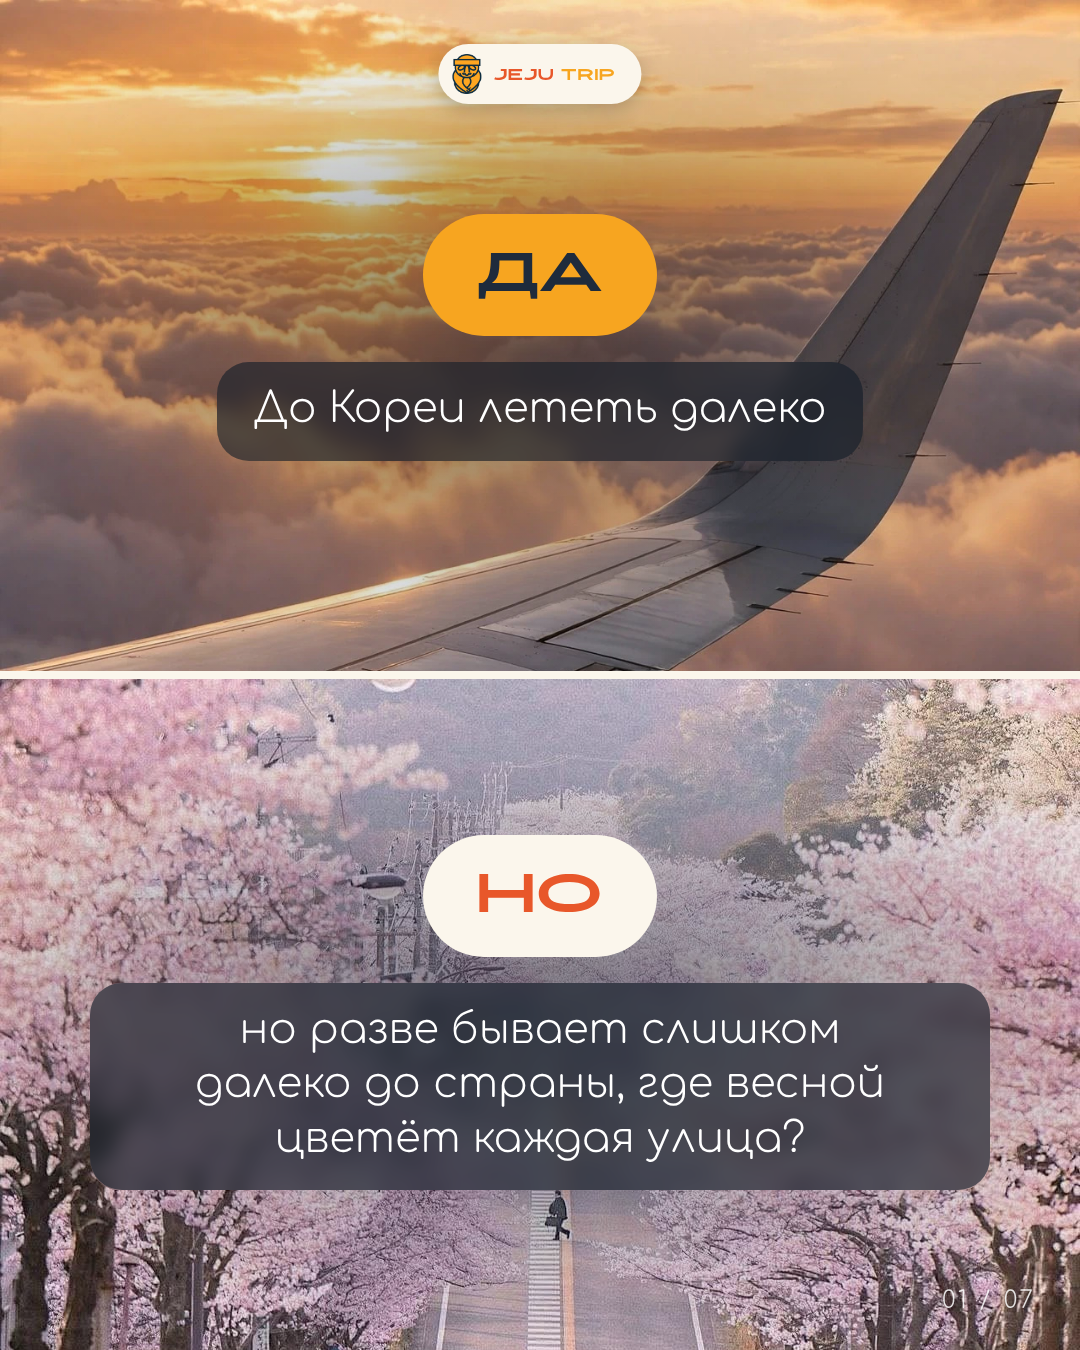
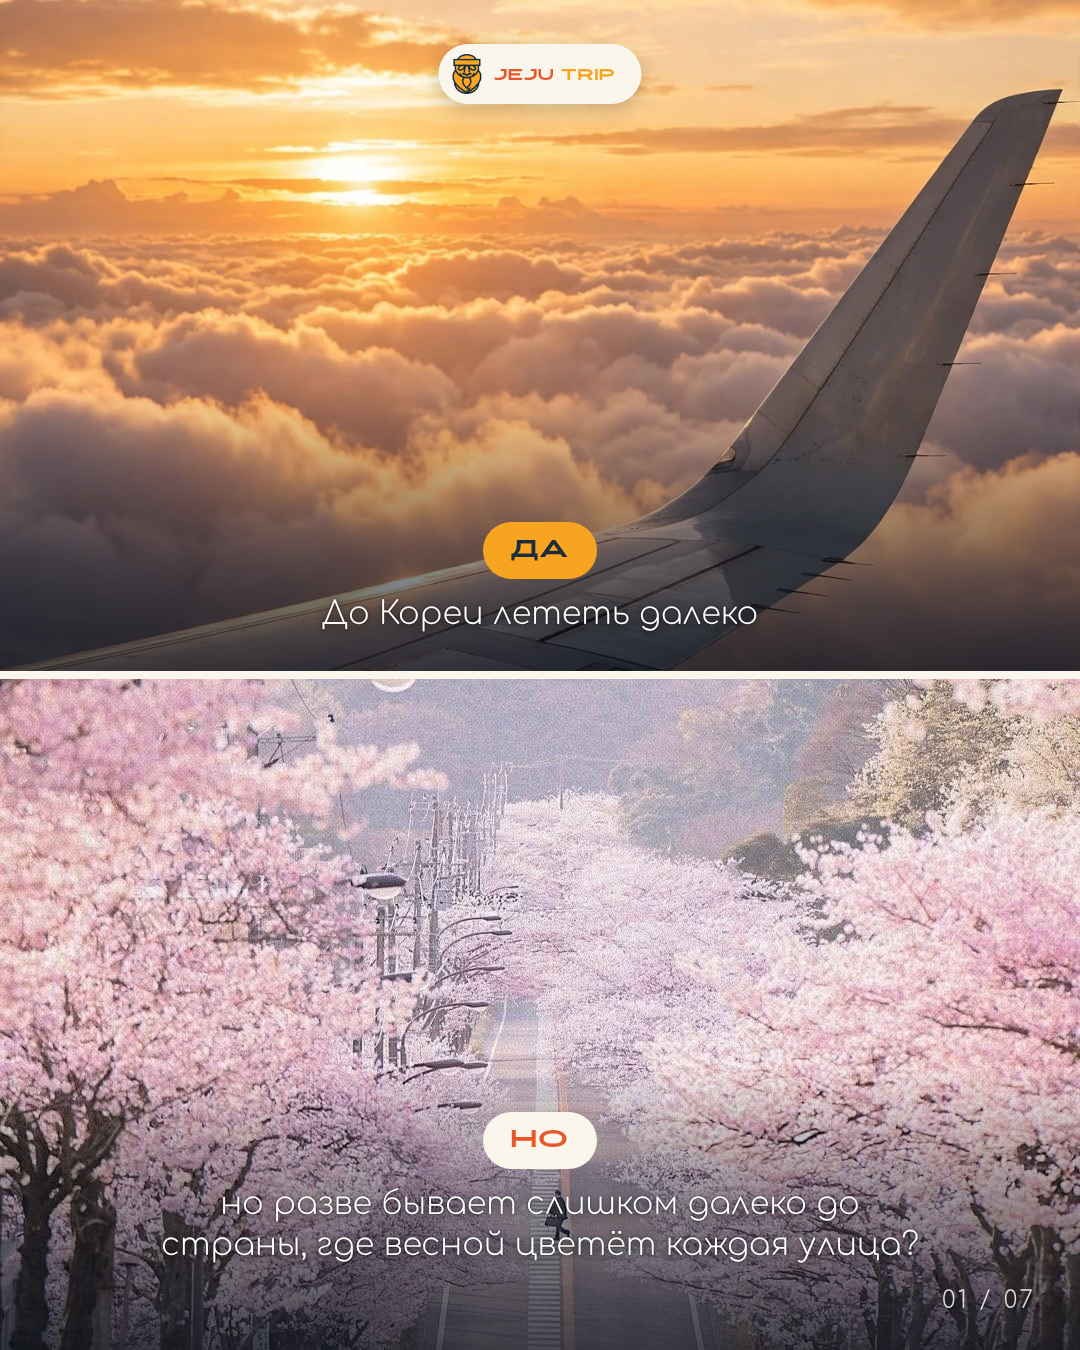
Da/No carousel: compact text at the bottom so photos stay visible
Claude-Session: https://claude.ai/code/session_012yCJf2bhKgqbqEqLj1cFSF

diff --git a/korea-da-no-carousel/carousel.html b/korea-da-no-carousel/carousel.html
@@ -6,15 +6,15 @@
 body{background:#888}
 /* Карусель «Да / Но» 1080×1350: два фото друг над другом, на стыке кремовая линия; текст по центру каждой половины */
 .s{width:1080px;height:1350px;position:relative;overflow:hidden;margin:0 auto 30px;background:var(--navy)}
-.half{position:absolute;left:0;right:0;height:675px;background-size:cover;display:flex;flex-direction:column;align-items:center;justify-content:center;gap:26px;padding:0 90px;text-align:center}
-.half::before{content:"";position:absolute;inset:0;background:radial-gradient(ellipse 75% 55% at 50% 52%,rgba(15,22,34,.55),rgba(15,22,34,.12) 70%,rgba(15,22,34,0))}
+.half{position:absolute;left:0;right:0;height:675px;background-size:cover;display:flex;flex-direction:column;align-items:center;justify-content:flex-end;gap:14px;padding:0 110px 44px;text-align:center}
+.half::before{content:"";position:absolute;inset:0;background:linear-gradient(0deg,rgba(12,18,28,.74) 0%,rgba(12,18,28,.36) 24%,rgba(12,18,28,0) 42%)}
 .half>*{position:relative}
-.top{top:0} .bot{top:675px}
+.top{top:0;padding-bottom:40px} .bot{top:675px;padding-bottom:84px}
 .seam{position:absolute;left:0;right:0;top:671px;height:8px;background:var(--cream);z-index:3}
-.tag{font:76px/1 Head;letter-spacing:2px;padding:20px 54px 26px;border-radius:999px}
+.tag{font:34px/1 Head;letter-spacing:2px;padding:10px 28px 13px;border-radius:999px}
 .da{background:var(--o);color:var(--navy)}
 .no{background:var(--cream);color:var(--red)}
-.tx{font:42px/1.3 Body;color:#fff;text-wrap:balance;max-width:900px;background:rgba(20,29,41,.62);backdrop-filter:blur(10px);-webkit-backdrop-filter:blur(10px);padding:20px 36px 24px;border-radius:32px}
+.tx{font:32px/1.3 Body;color:#fff;text-wrap:balance;max-width:820px;text-shadow:0 2px 10px rgba(0,0,0,.7),0 0 2px rgba(0,0,0,.6)}
 .mark{position:absolute;top:44px;left:50%;transform:translateX(-50%);display:flex;align-items:center;gap:12px;background:var(--cream);border-radius:999px;padding:10px 26px 10px 14px;z-index:4;box-shadow:0 6px 20px rgba(0,0,0,.2)}
 .mark img{height:40px} .mark span{font:22px Head;letter-spacing:1px} .mark i{font-style:normal;color:var(--red)} .mark b{font-weight:400;color:var(--o)}
 .pg{position:absolute;right:44px;bottom:36px;font:24px Body;color:#fff;letter-spacing:3px;opacity:.85;z-index:4;text-shadow:0 1px 8px rgba(0,0,0,.6)}
@@ -59,7 +59,7 @@ body{background:#888}
 </section>
 <section class="s" id="s5">
 <div class="half top" style="background-image:url(img/5a.jpg);background-position:center 50%"><div class="tag da">ДА</div><div class="tx">У дворца Кёнбоккун всегда много людей</div></div>
-<div class="half bot" style="background-image:url(img/5b.jpg);background-position:center 30%;justify-content:flex-start;padding-top:36px"><div class="tag no">НО</div><div class="tx">в ханбоке вход бесплатный, а каждый кадр выглядит как сцена из дорамы</div></div>
+<div class="half bot" style="background-image:url(img/5b.jpg);background-position:center 45%"><div class="tag no">НО</div><div class="tx">в ханбоке вход бесплатный, а каждый кадр выглядит как сцена из дорамы</div></div>
 <div class="seam"></div>
 <div class="mark"><img src="logo.png"><span><i>JEJU</i> <b>TRIP</b></span></div>
 <div class="pg">05 / 07</div>
